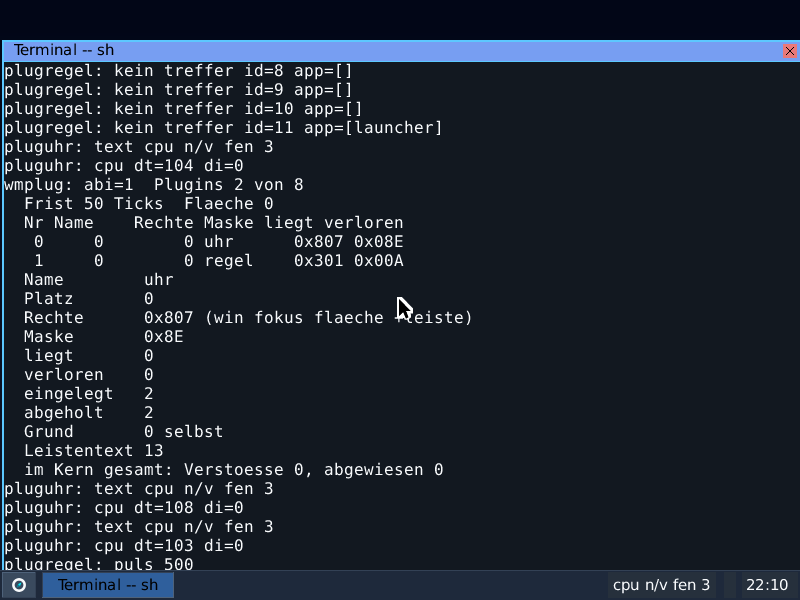
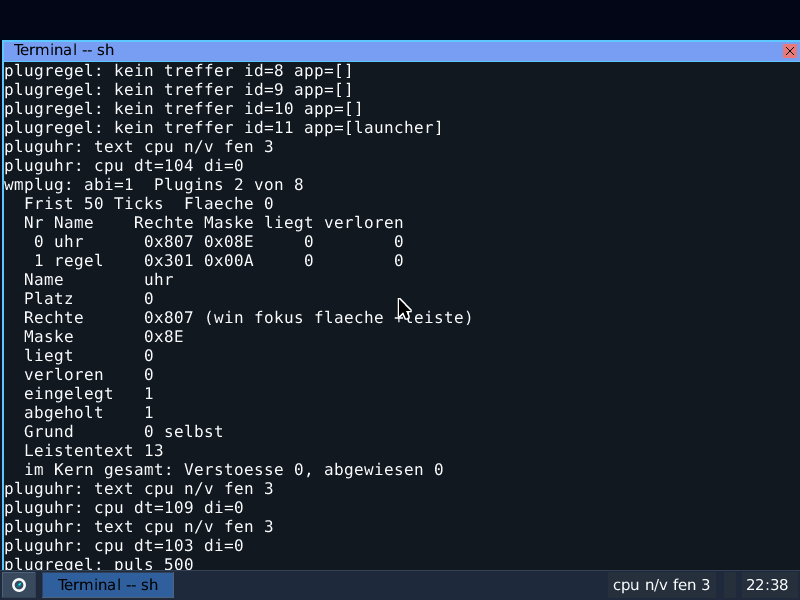
wmplugin/Zusatz-Vorgabe: der Aus-Schalter und seine Gegenprobe
Justins Zusatz-Vorgabe vom 14.09.2026, Punkte 1, 2 und 4.

ABSCHNITT 14 DES LAEUFERS misst den Schalter gegen SICH SELBST: zwei
Abbilder mit DEMSELBEN Autostart-Eintrag (`uhr`), eines ohne und eines
mit /etc/wmplug.aus. Ohne die Datei kommt die Erweiterung hoch
(`desktop: autostart [uhr`, `wmplug: reg uhr`), mit ihr nichts davon --
und der Fensterserver steht trotzdem (`wm: hold`, kein Panik, der
Zusammensetzer laeuft). Nur so ist belegt, dass die DATEI den
Unterschied macht und nicht eine andere Liste.

Abschnitt 20 des Berichts nennt alle vier Punkte der Vorgabe mit dem,
was dafuer gebaut wurde, und begruendet den Auslieferungszustand:
System vorhanden, kein Plugin vorgemerkt, /etc/wmplug.aus liegt nicht.

Bild 09 ist neu aufgenommen: die Tafel steht jetzt unter ihrem Kopf.

diff --git a/docs/RUNDE-WMPLUGIN.md b/docs/RUNDE-WMPLUGIN.md
@@ -1601,3 +1601,80 @@ Dass der Riss ein Zufallsfehler war, ist aus zwei Laeufen geschlossen
 (einer rot, einer gruen) und aus der Bauart des Fehlers — **nicht** aus
 einer Laufreihe, die die Haeufigkeit misst. Wer die Rate wissen will,
 muss denselben Abschnitt zwanzig Mal fahren; das steht aus.
+
+---
+
+## 20. Zusatz-Vorgabe (Justin, 14.09.2026): Modularitaet
+
+Die Vorgabe hat vier Punkte. Sie stehen hier einzeln, mit dem, was
+dafuer gebaut wurde, und mit der Stelle, an der es gemessen wird.
+
+### 20.1 Die Verwaltung ist selbst abschaltbar
+
+**Vorgabe:** Der Ring-3-Teil laeuft als eigener Dienst und ist ganz
+abschaltbar; ist er aus, laeuft der Schreibtisch **unveraendert**.
+
+**Gebaut:** `/etc/wmplug.aus`. Liegt die Datei, ruehrt `/bin/desktop`
+die Autostart-Liste nicht an — kein `wmplug enable`, also keine
+Gewaehrung (`WM_PLUG_GRANT`) und kein gestartetes Plugin. Der Kern hat
+dann keinen angemeldeten Platz.
+
+**Warum eine Datei und kein Bootwort:** Eine Kommandozeile gehoert dem,
+der bootet; `/etc` gehoert dem, der das System einrichtet — dieselbe
+Stelle, an der schon `wmplug.conf` und `wmplug.autostart` liegen. Die
+Datei laesst sich zur Laufzeit anlegen und wegnehmen, ohne dass jemand
+neu startet.
+
+**Warum nicht einfach eine leere Autostart-Liste:** Das sind zwei
+verschiedene Saetze. Eine leere Liste heisst *keine Erweiterung
+gewuenscht*; `/etc/wmplug.aus` heisst *die Verwaltung soll gar nicht
+erst laufen*. Die Gegenprobe misst den zweiten.
+
+### 20.2 Der Anteil im Kern kostet ohne Plugin nichts
+
+**Vorgabe:** So klein wie moeglich, und ohne angemeldetes Plugin
+**nichts** — als Zahl, nicht als „spuert man nicht".
+
+**Befund vor der Nachbesserung:** `wmplug.sweep` lief auch auf einem
+Schreibtisch ohne jede Erweiterung durch **beide** Schleifen (`reap`
+und `sweep_at`, je acht Plaetze) — einmal je Bild in `compose` und
+einmal je Tick in `poll`. Das ist wenig, aber es ist nicht nichts, und
+es ist genau der Betrag, den ein ausgeschaltetes System nicht kosten
+darf.
+
+**Gebaut:** `sweep` kehrt bei `S_PLUGS == 0` nach **einem** Vergleich
+um, vor dem Setzen von `S_BUSY` und vor beiden Schleifen. Aus sechzehn
+Platzpruefungen je Aufruf wird eine Abfrage.
+
+Das ist **kein Schalter, den jemand vergessen kann**: `S_PLUGS` ist die
+Zahl der belegten Plaetze, sie steigt beim Anmelden und faellt beim
+Abmelden. Der Kern misst seinen eigenen Zustand, statt einer
+Einstellung zu glauben.
+
+`notify` hatte diese Eigenschaft schon vorher (`if !ready(state) {
+return }` als erste Zeile) und behaelt sie.
+
+### 20.3 Plugins kommen als Paket, nicht ins Grundabbild
+
+Das war schon so und bleibt so: `pakete/wmplug-uhr`, `pakete/wmplug-regel`
+und `pakete/wmplug-werkzeug` sind PLAN/opk-Rezepte, gebaut mit
+`bash pakete/bauen.sh`. Im Git liegen die **Rezepte**, nicht die `.opk`
+— ein Paket ist ein Ergebnis, kein Quelltext.
+
+### 20.4 Der Standardzustand, begruendet
+
+**Ausgeliefert wird:** Das Plugin-System ist **vorhanden**, aber es ist
+**kein Plugin installiert und keines vorgemerkt**.
+`/etc/wmplug.autostart` enthaelt im Auslieferungszustand nur
+Bemerkungen; `/etc/wmplug.aus` liegt **nicht**.
+
+**Warum so und nicht anders:** Ein Schreibtisch ohne Erweiterung ist
+der Normalfall. Wer eine will, installiert ein Paket und traegt eine
+Zeile ein — beides bewusste Handlungen. Die Umkehrung (etwas laeuft,
+weil es mitgeliefert wurde) ist genau die Bauart, aus der
+Plugin-Systeme ihren schlechten Ruf haben.
+
+Damit kostet das System im Auslieferungszustand: eine Abfrage je
+`sweep`-Aufruf (20.2) und eine `ready`-Abfrage je Ereignis. Das
+Verhalten des Schreibtisches ist Zeile fuer Zeile das von vor dieser
+Runde.
